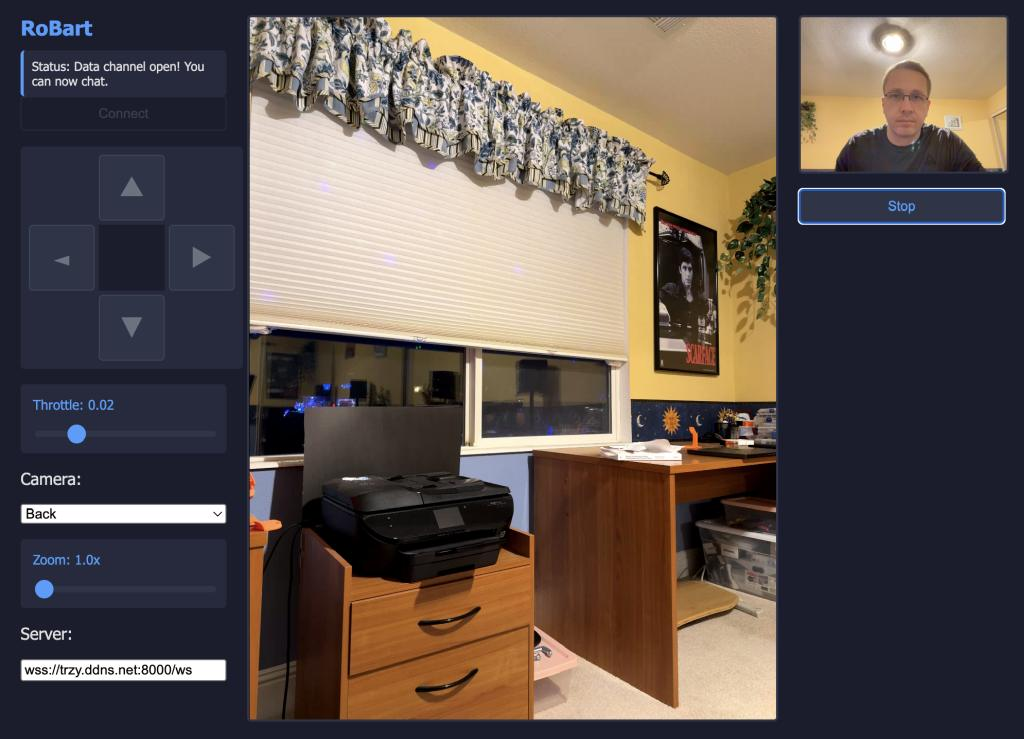
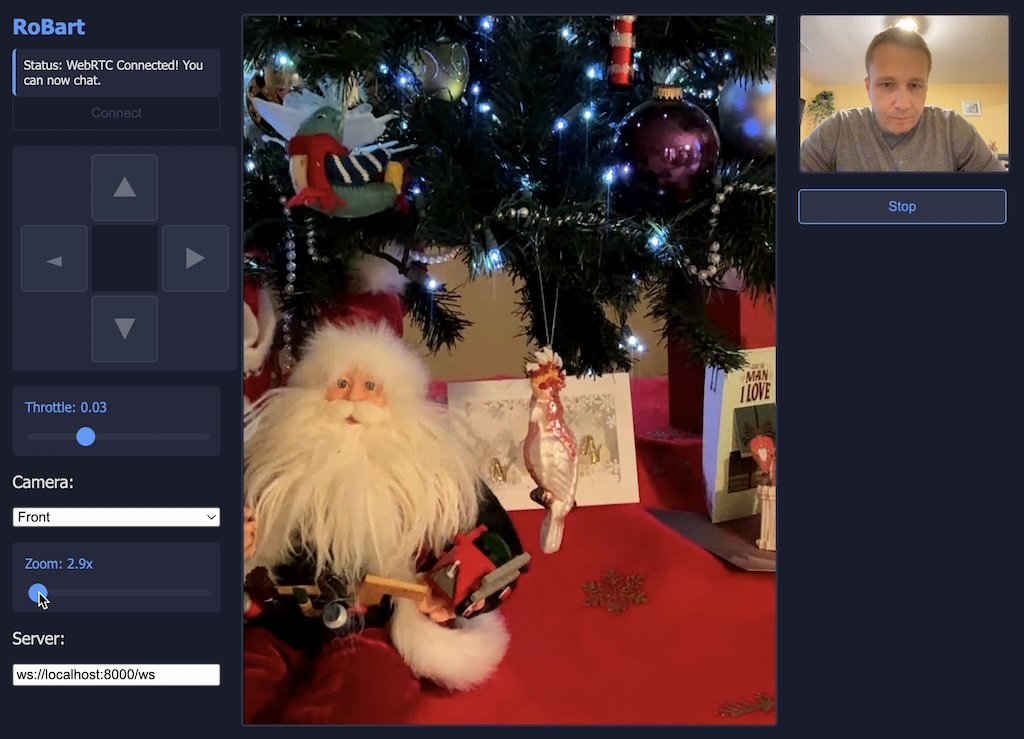
Updated README with video

diff --git a/README.md b/README.md
@@ -26,10 +26,10 @@ Then, open [http://localhost:8000](http://localhost:8000) for the teleop interfa
 
 <table align="center">
   <tr>
-    <td align="center"><img src="docs/Readme/Images/web_ui.jpg" /></td>
+    <td align="center"><a href="https://www.youtube.com/watch?v=qaFw_k8H3FY"><img src="docs/Readme/Images/web_ui.jpg" /></a></td>
   </tr>
   <tr>
-    <td align="center">Web client interface.</td>
+    <td align="center"><a href="https://www.youtube.com/watch?v=qaFw_k8H3FY">Teleoperating RoBart from a laptop.</a></td>
   </tr>
 </table>
 
